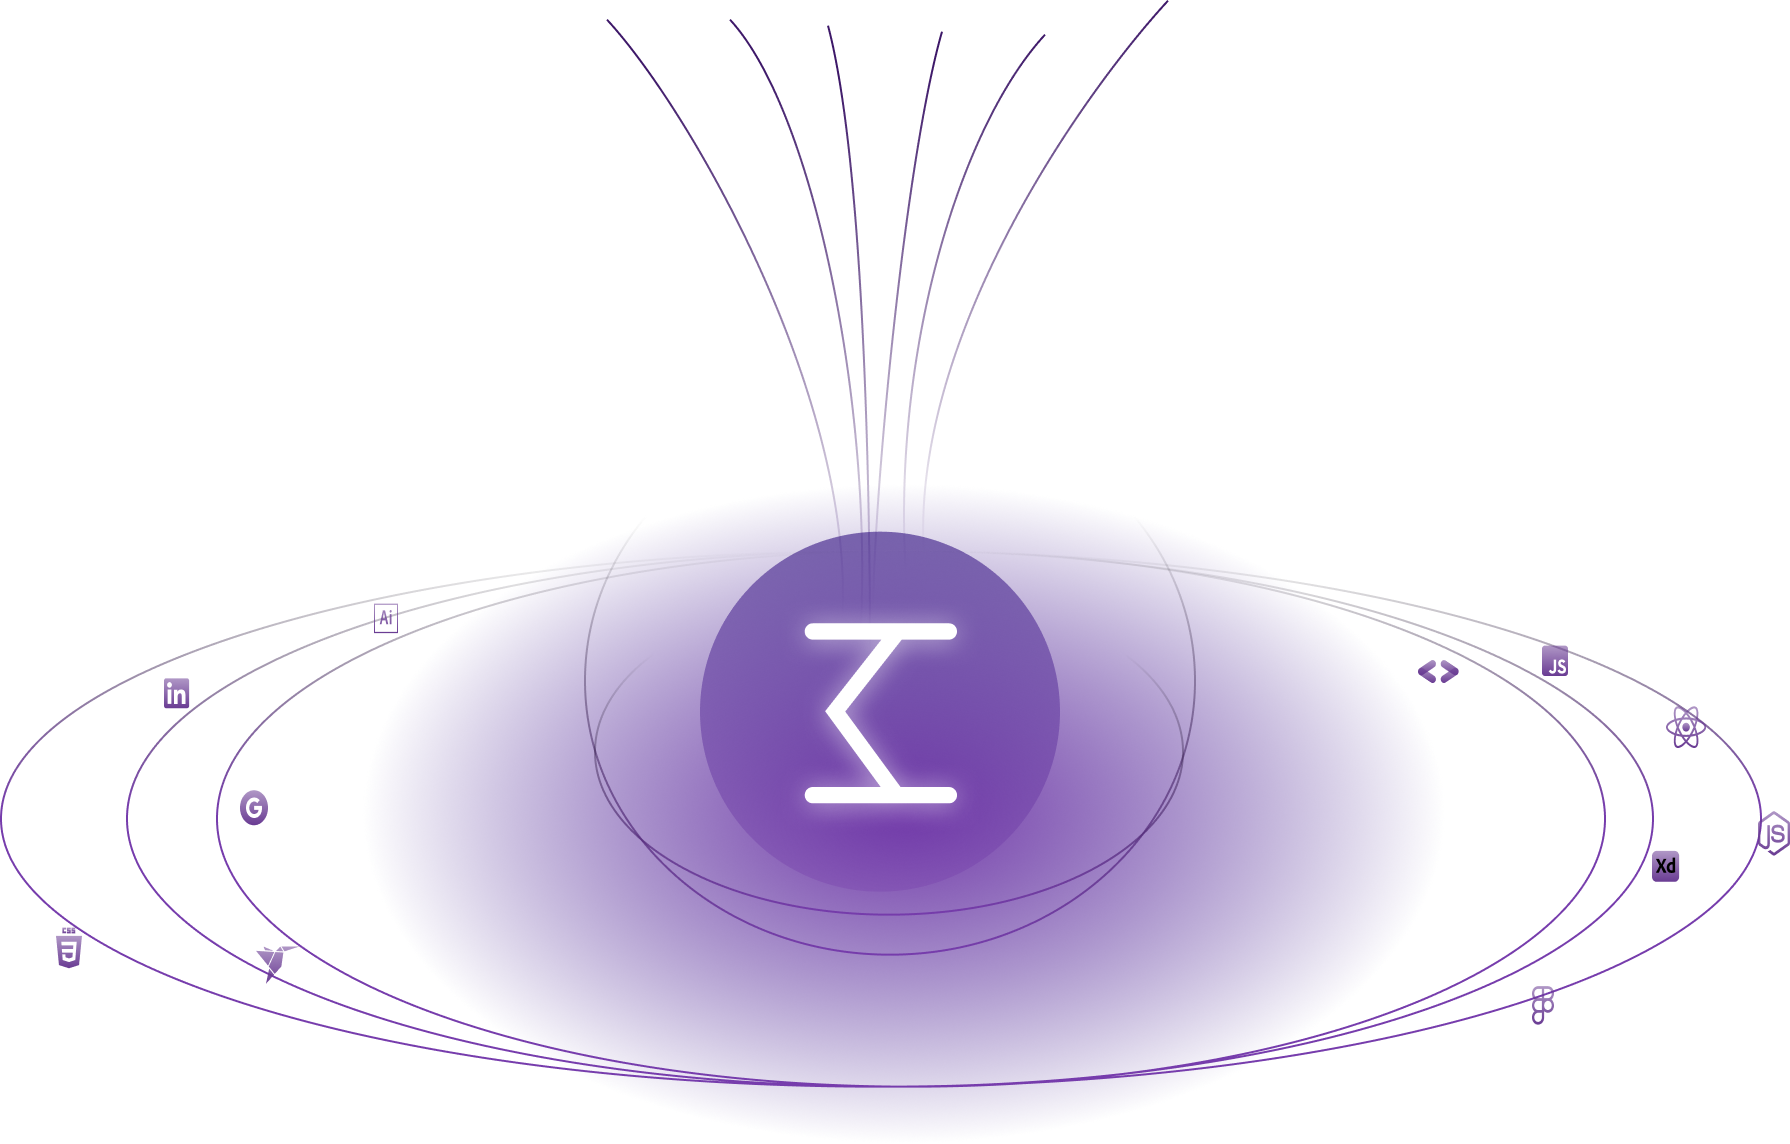
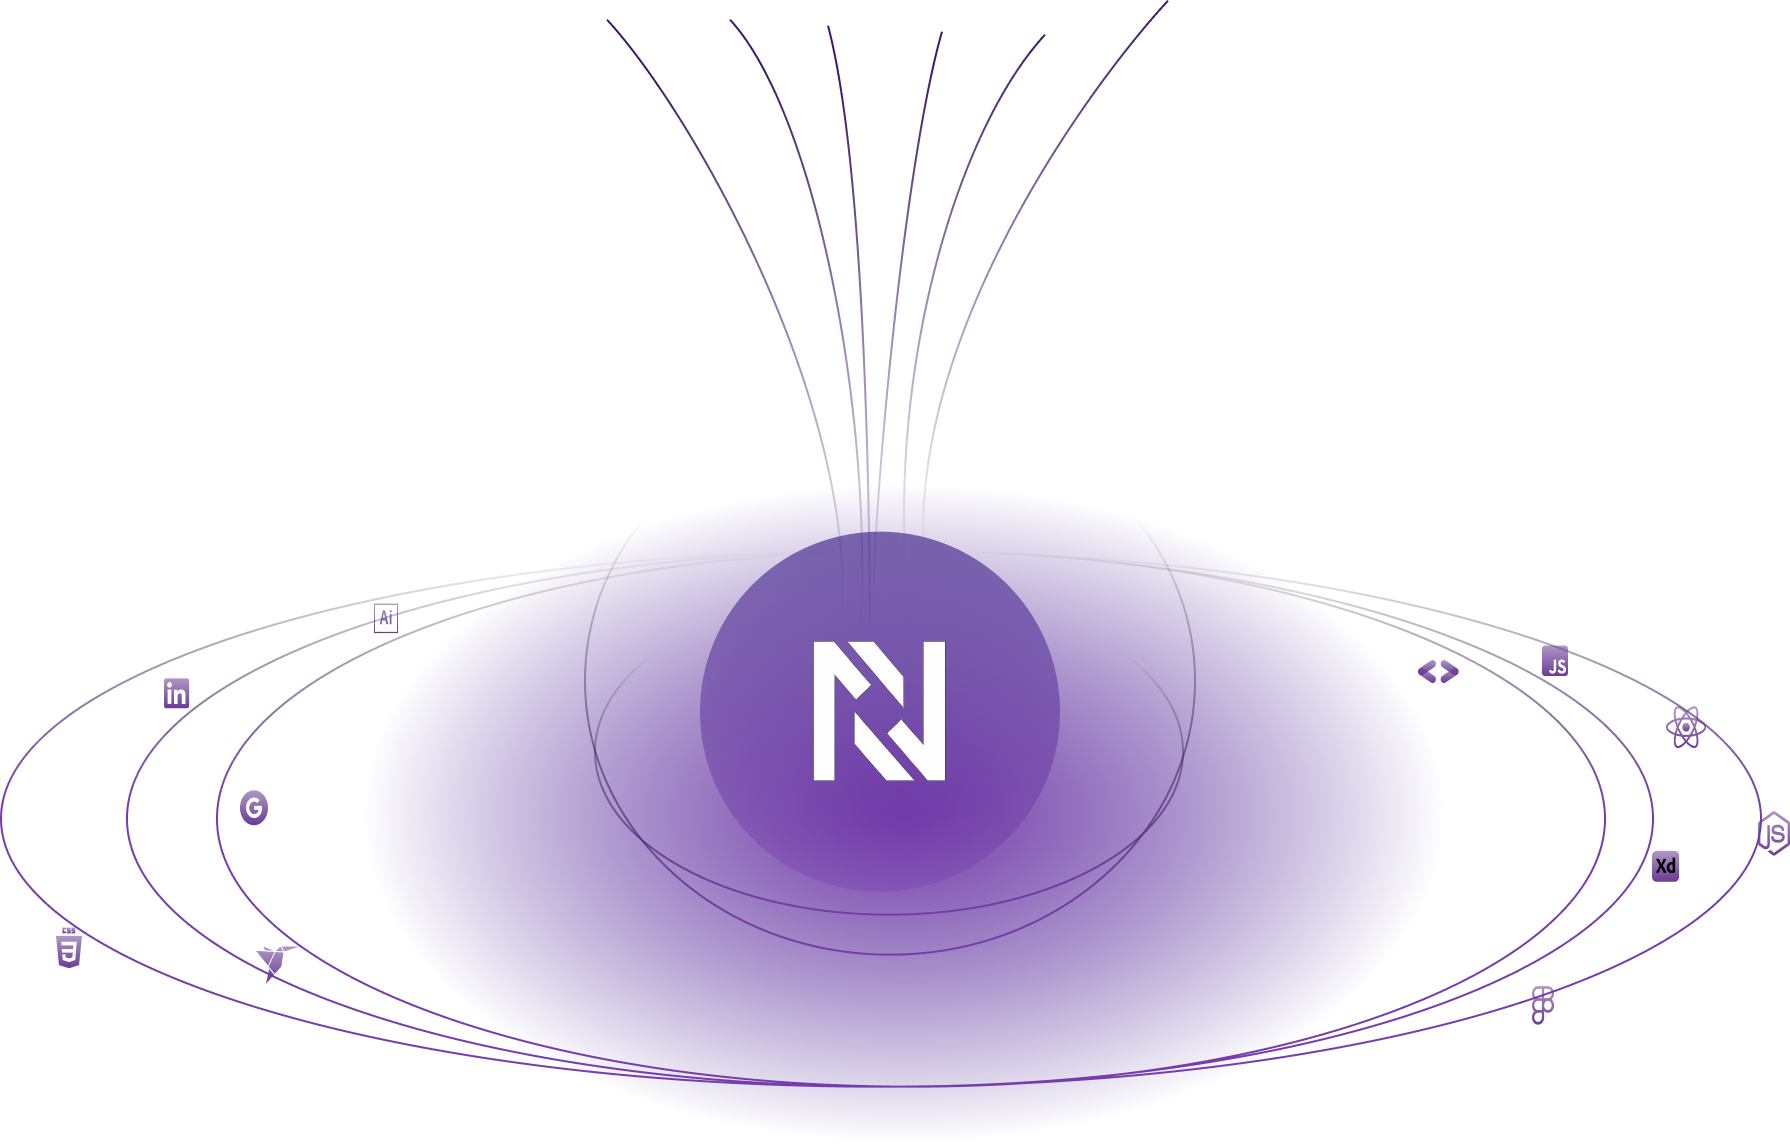
Refactor code structure for improved readability and maintainability

Changed region(s): [[0.4302, 0.5201, 0.5531, 0.7343]]

diff --git a/app/Layout/Header.tsx b/app/Layout/Header.tsx
@@ -1,5 +1,4 @@
-import { Button, HStack, Link } from "@chakra-ui/react";
-import { LogoIcon } from "../../public/icons";
+import { Button, HStack, Image, Link } from "@chakra-ui/react";
 
 export const routerLink = [
 	{ label: "Home", href: "/" },
@@ -9,7 +8,7 @@ export const routerLink = [
 
 export function Header() {
 	return (
-		<HStack as="header" py="4xl" bg="brandPurple.500">
+		<HStack as="header" bg="brandPurple.500">
 			<HStack
 				w="full"
 				justifyContent="space-between"
@@ -17,7 +16,12 @@ export function Header() {
 				maxW="3xl"
 			>
 				<Button cursor="pointer" variant="ghost">
-					<LogoIcon color="white" />
+					<Image
+						w="70px"
+						objectFit="contain"
+						h="70px"
+						src="./images/logoNN.png"
+					/>
 				</Button>
 				<HStack gap="11xl">
 					{routerLink.map((link) => (

diff --git a/app/Layout/Footer.tsx b/app/Layout/Footer.tsx
@@ -1,0 +1,27 @@
+import { HStack, Text, VStack } from "@chakra-ui/react";
+
+export function Footer() {
+	return (
+		<VStack
+			// py="10xl"
+			maxW="3xl"
+			marginInline="auto"
+			border="1px solid red"
+			as="footer"
+			alignItems="flex-start"
+		>
+			<Text color="white" fontSize="display-xs">
+				Contact
+			</Text>
+			<Text maxW="700px" mt="73px" mb="2xl" color="white" fontSize="text-md">
+				I'm currently looking to join a cross-functional team that values
+				improving people's lives through accessible design. or have a project in
+				mind? Let's connect.
+			</Text>
+			<Text color="white" fontSize="text-md">
+				nurinail2003@gmail.com
+			</Text>
+			<HStack></HStack>
+		</VStack>
+	);
+}

diff --git a/app/page.tsx b/app/page.tsx
@@ -1,4 +1,5 @@
 import { Box } from "@chakra-ui/react";
+import { Footer } from "./Layout/Footer";
 import { Header } from "./Layout/Header";
 import { Main } from "./Layout/Main";
 
@@ -7,6 +8,7 @@ export default function Home() {
 		<Box bg="brandPurple.700">
 			<Header />
 			<Main />
+			<Footer />
 		</Box>
 	);
 }
